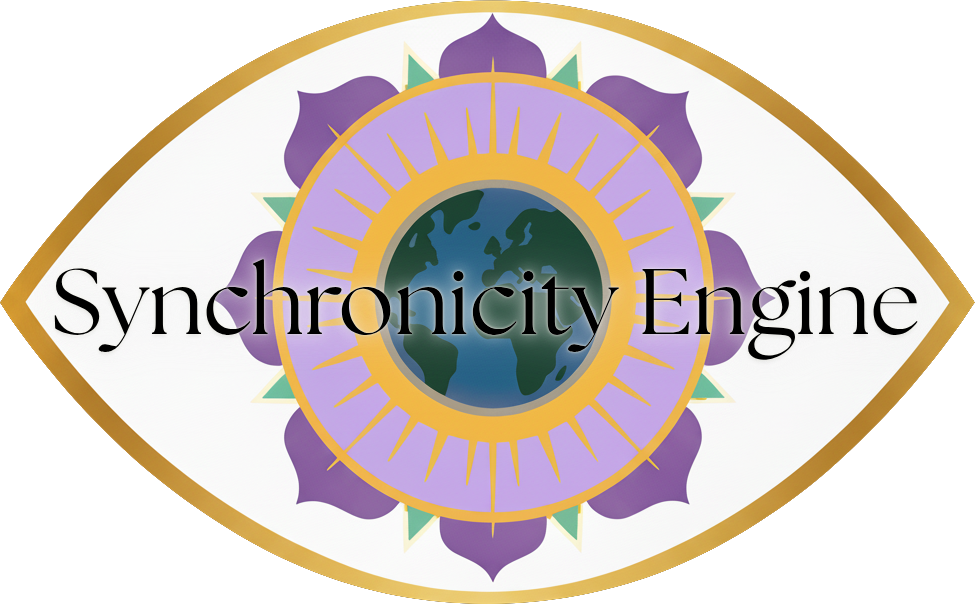
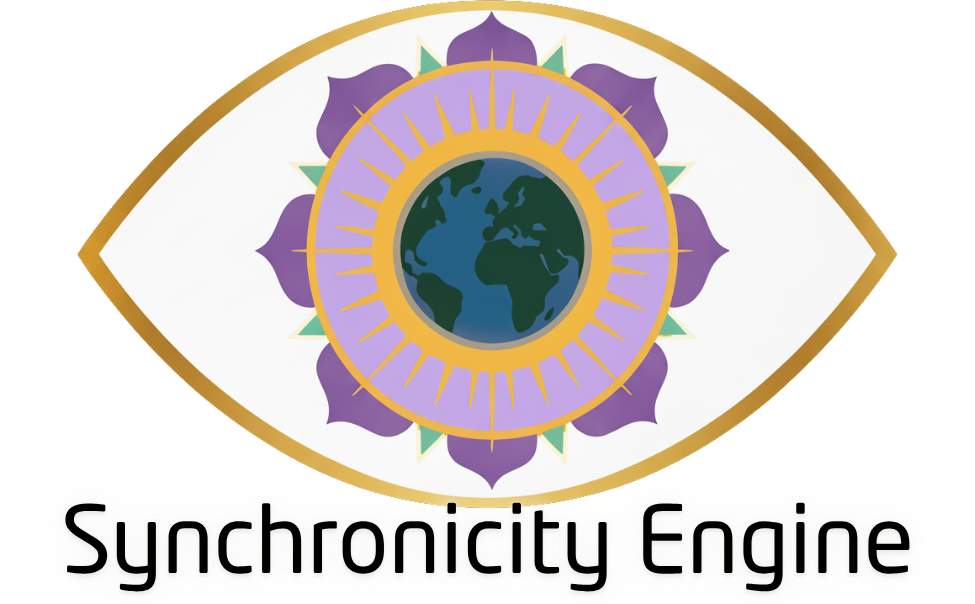
feat: Add Sync is.png as homepage hero image with responsive styling and hover effects

diff --git a/sacred-theme.css b/sacred-theme.css
@@ -159,6 +159,27 @@ body {
     padding-left: 280px;
 }
 
+/* Homepage Hero Image */
+.hero-image {
+    margin: 2rem auto;
+    text-align: center;
+}
+
+.homepage-hero-image {
+    max-width: 100%;
+    height: auto;
+    max-height: 400px;
+    object-fit: contain;
+    border-radius: 12px;
+    box-shadow: 0 8px 32px rgba(0, 0, 0, 0.1);
+    transition: transform 0.3s ease, box-shadow 0.3s ease;
+}
+
+.homepage-hero-image:hover {
+    transform: scale(1.02);
+    box-shadow: 0 12px 48px rgba(0, 0, 0, 0.15);
+}
+
 /* Mobile Responsive: Transform sidebar to top bar */
 @media (max-width: 768px) {
     .nav-container {
@@ -243,6 +264,16 @@ body {
     body {
         padding-left: 0;
         padding-top: 100px; /* Adjust based on actual top bar height */
+    }
+
+    /* Mobile hero image adjustments */
+    .hero-image {
+        margin: 1.5rem auto;
+    }
+
+    .homepage-hero-image {
+        max-height: 300px;
+        border-radius: 8px;
     }
 }
 

diff --git a/src/styles/sacred-theme.css b/src/styles/sacred-theme.css
@@ -159,6 +159,27 @@ body {
     padding-left: 280px;
 }
 
+/* Homepage Hero Image */
+.hero-image {
+    margin: 2rem auto;
+    text-align: center;
+}
+
+.homepage-hero-image {
+    max-width: 100%;
+    height: auto;
+    max-height: 400px;
+    object-fit: contain;
+    border-radius: 12px;
+    box-shadow: 0 8px 32px rgba(0, 0, 0, 0.1);
+    transition: transform 0.3s ease, box-shadow 0.3s ease;
+}
+
+.homepage-hero-image:hover {
+    transform: scale(1.02);
+    box-shadow: 0 12px 48px rgba(0, 0, 0, 0.15);
+}
+
 /* Mobile Responsive: Transform sidebar to top bar */
 @media (max-width: 768px) {
     .nav-container {
@@ -243,6 +264,16 @@ body {
     body {
         padding-left: 0;
         padding-top: 100px; /* Adjust based on actual top bar height */
+    }
+
+    /* Mobile hero image adjustments */
+    .hero-image {
+        margin: 1.5rem auto;
+    }
+
+    .homepage-hero-image {
+        max-height: 300px;
+        border-radius: 8px;
     }
 }
 

diff --git a/index.html b/index.html
@@ -81,7 +81,9 @@
                     <em>This is our axiom:</em> We build technology that honors presence. Your attention becomes a blessing, blessings fuse into tokens, tokens flow through a sacred gifting economy to fund regeneration.
                 </p>
 
-
+                <div class="hero-image animate-cascade">
+                    <img src="media/Sync is.png" alt="Sync is" class="homepage-hero-image">
+                </div>
 
             </div>
         </section>

diff --git a/src/pages/index.html b/src/pages/index.html
@@ -81,7 +81,9 @@
                     <em>This is our axiom:</em> We build technology that honors presence. Your attention becomes a blessing, blessings fuse into tokens, tokens flow through a sacred gifting economy to fund regeneration.
                 </p>
 
-
+                <div class="hero-image animate-cascade">
+                    <img src="media/Sync is.png" alt="Sync is" class="homepage-hero-image">
+                </div>
 
             </div>
         </section>
